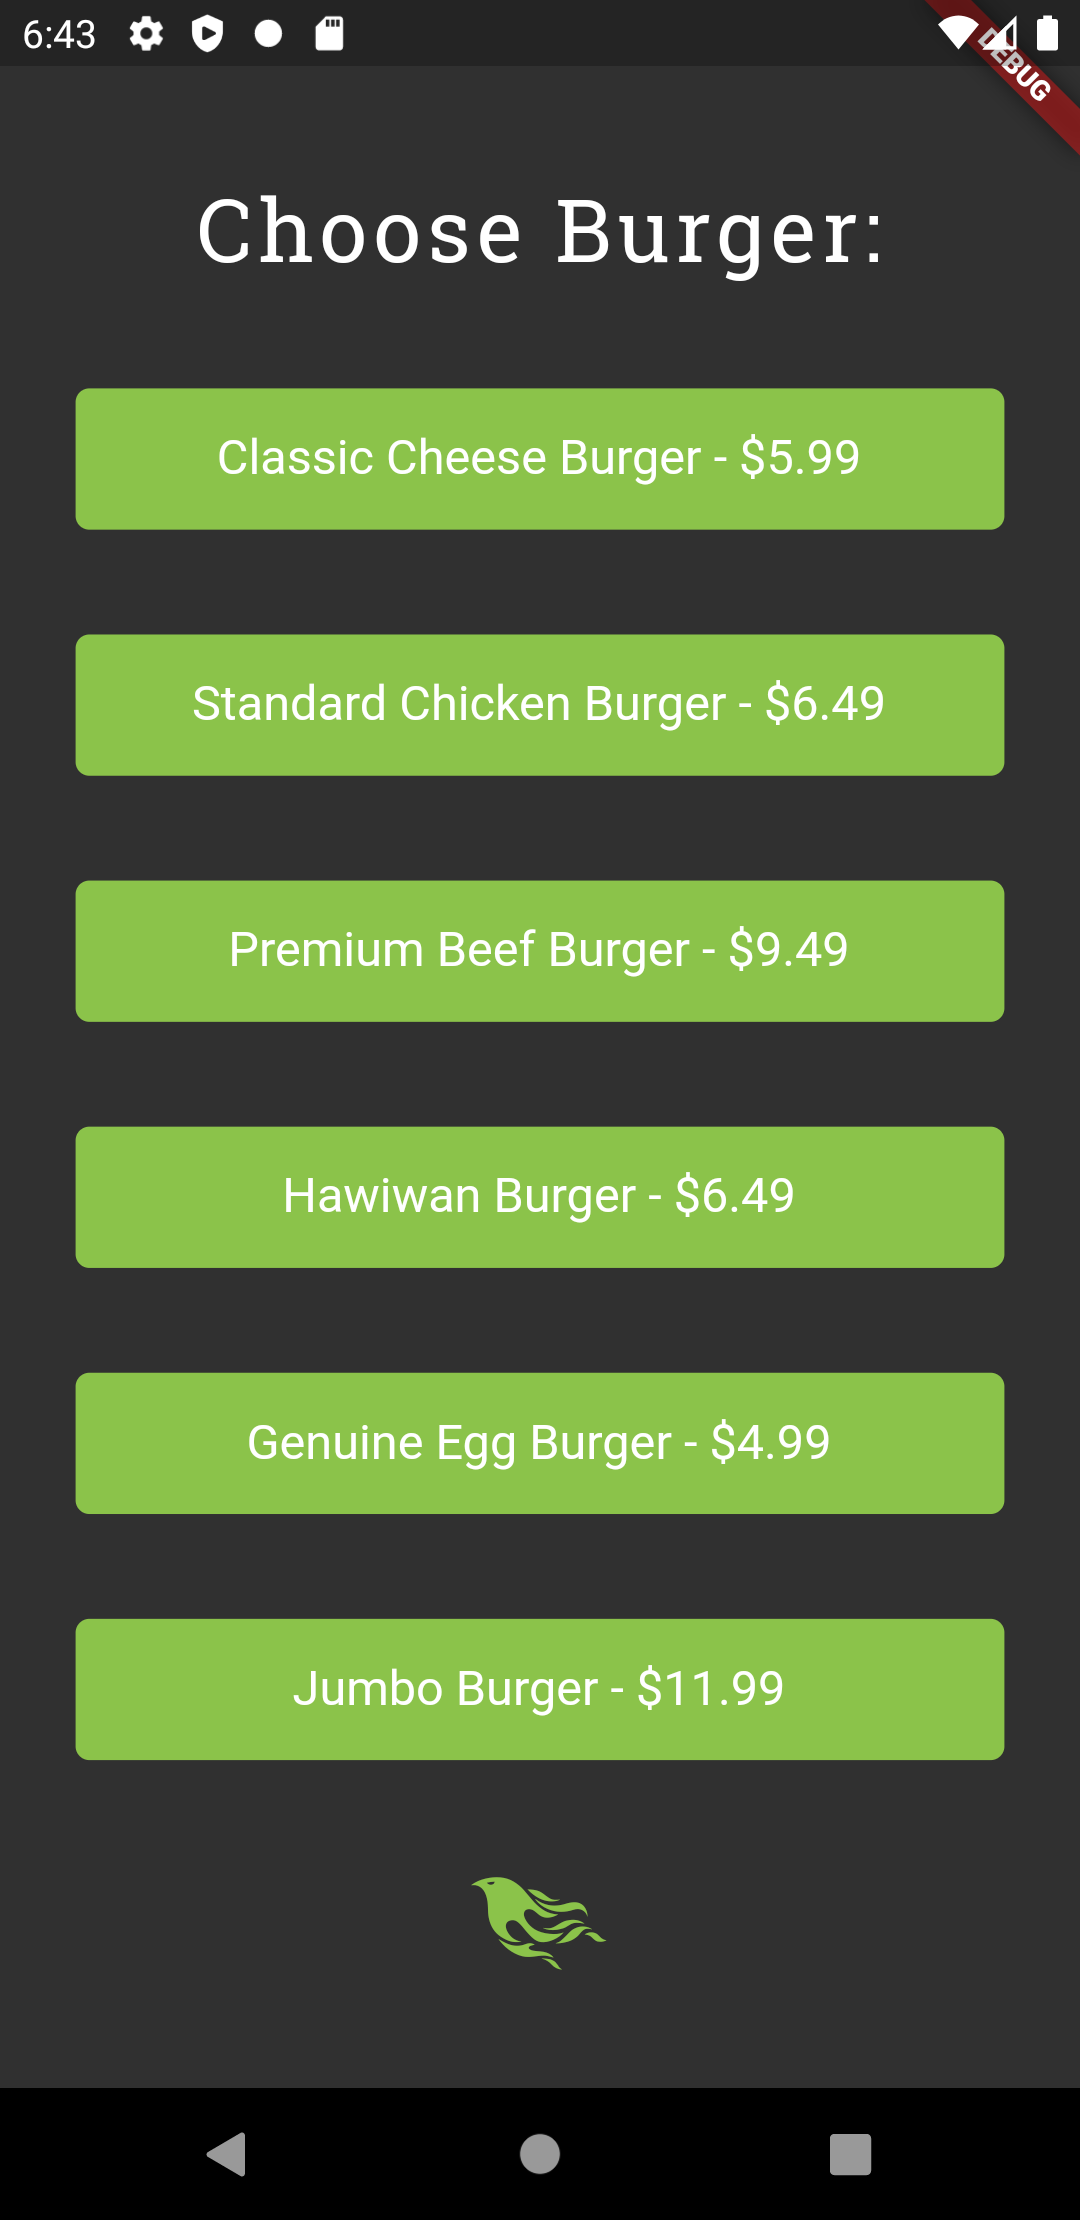
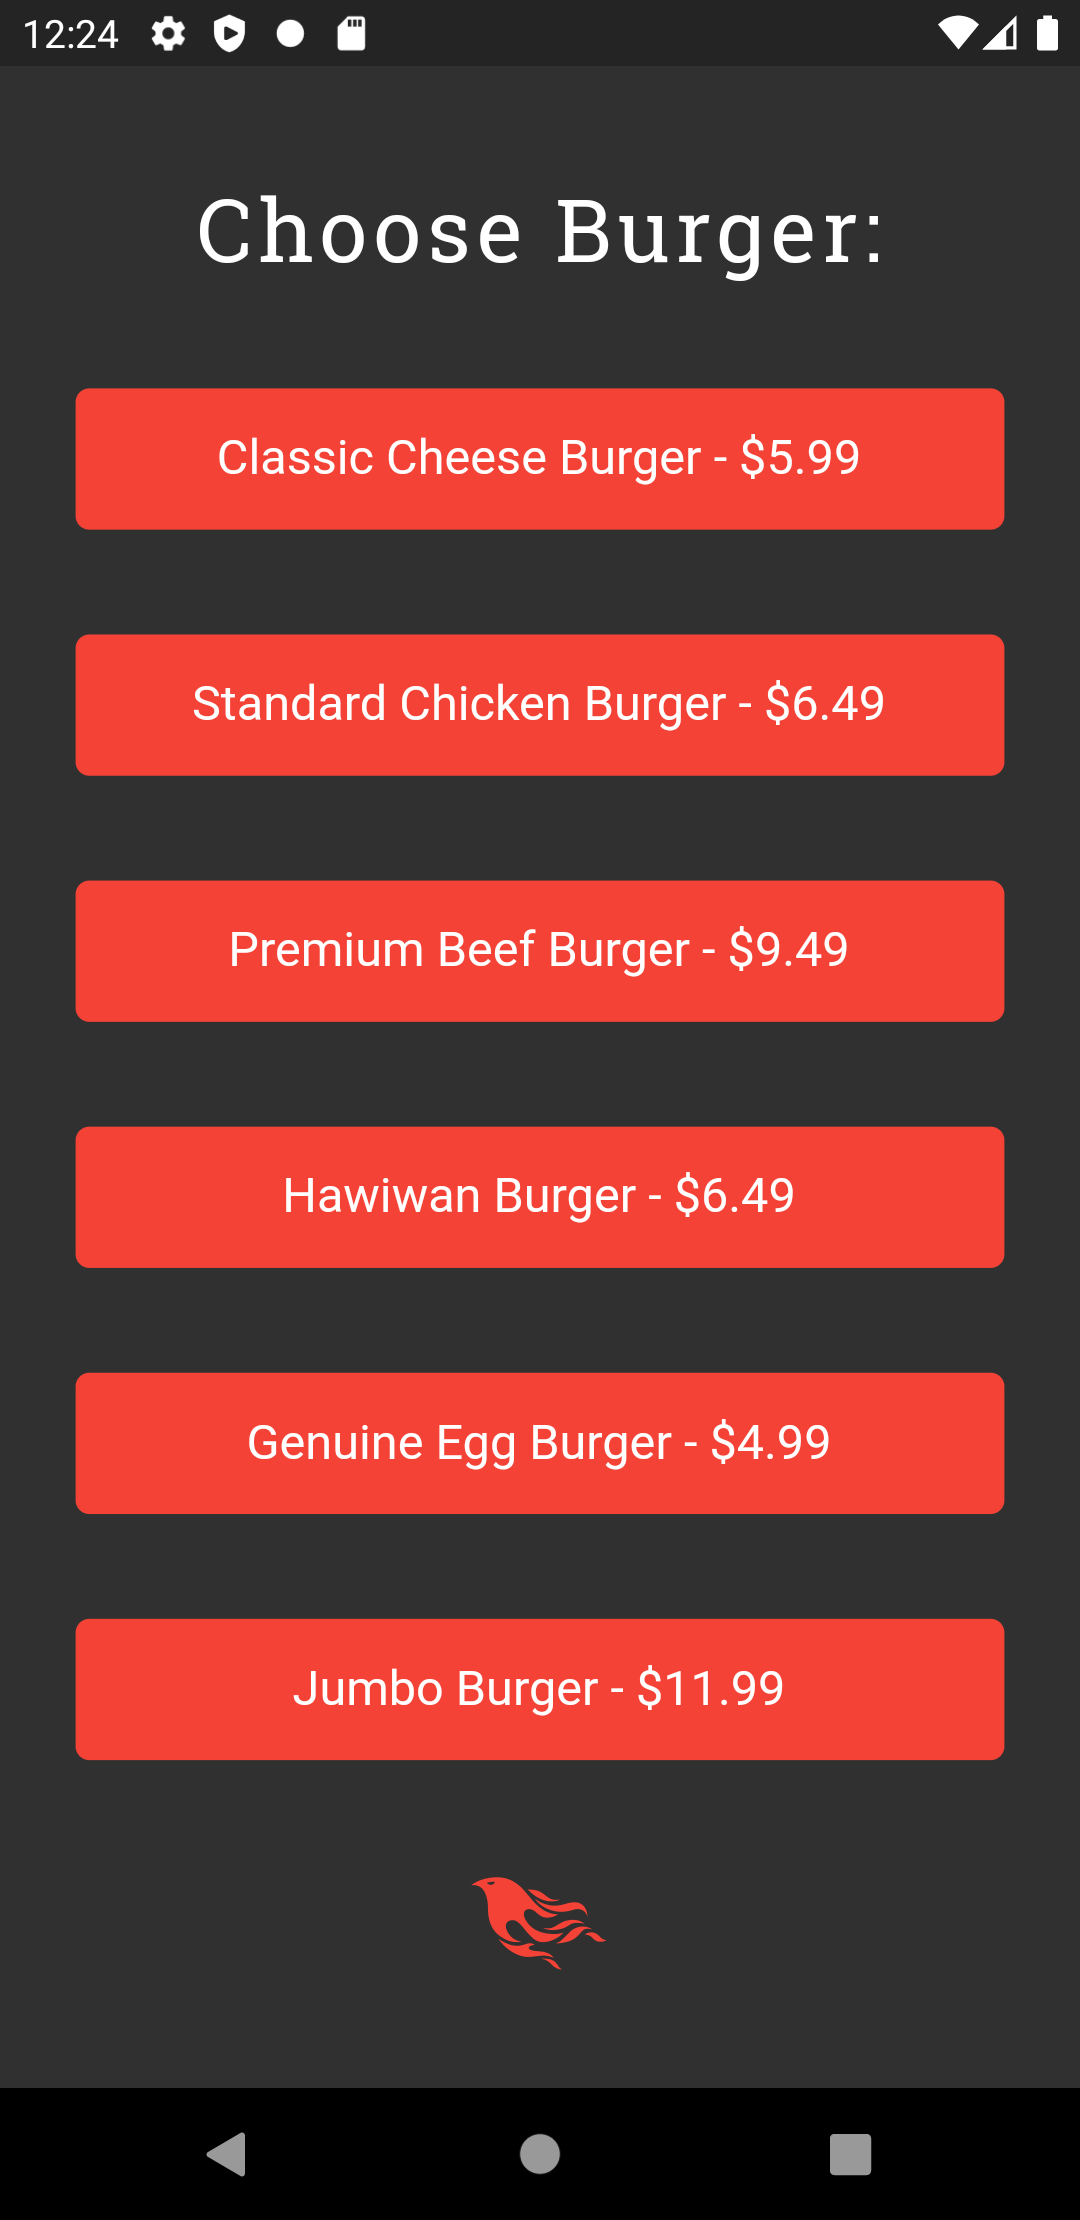
Changed accent color and README

diff --git a/lib/Widgets/Loading_Indicator.dart b/lib/Widgets/Loading_Indicator.dart
@@ -1,3 +1,4 @@
+import 'package:burgerjoint/Utilities/Constants.dart';
 import 'package:burgerjoint/Utilities/SizeConfig.dart';
 import 'package:flutter/material.dart';
 import 'package:flutter_spinkit/flutter_spinkit.dart';
@@ -11,7 +12,7 @@ class LoadingIndicator extends StatelessWidget {
   Widget build(BuildContext context) {
     SizeConfig().init(context);
     return SpinKitPulse(
-      color: Colors.lightGreen,
+      color: usedColor,
       size: size,
     );
   }

diff --git a/lib/Utilities/Constants.dart b/lib/Utilities/Constants.dart
@@ -1,3 +1,3 @@
 import 'package:flutter/material.dart';
 
-final usedColor = Colors.lightGreen;
+final usedColor = Colors.red;

diff --git a/README.md b/README.md
@@ -5,6 +5,7 @@
 This is recreation of my very first app 'Burger Joint'. I developed the main app which was built with java at my very fist phrase of development career. I have a nostalgic touch with. That's why I have recreated it using flutter.
 
 - Anyone is welcome to create issues and pull requests.
+- Credit to only icon used - [phoenix-framework from Font Awesome](https://fontawesome.com/icons/phoenix-framework?style=brands)
 
 <p align="center">
 <img src="Screenshots/1.png" width="200">
